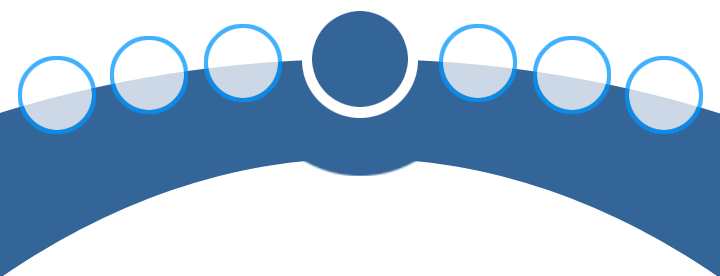
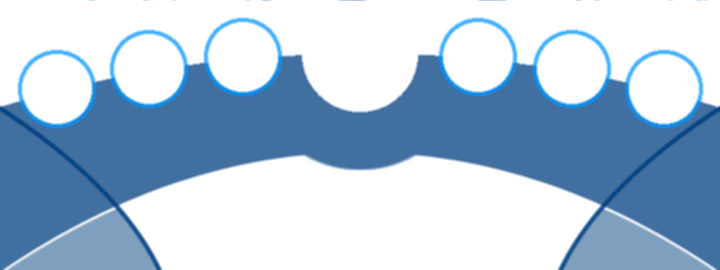
mainmenu colorfix, messagefix

diff --git a/tuxbox/enigma/src/enigma_dyn.cpp b/tuxbox/enigma/src/enigma_dyn.cpp
@@ -35,6 +35,51 @@
 
 #define DELETE(WHAT) result.strReplace(#WHAT, "")
 
+static int getHex(int c)
+{
+	c=toupper(c);
+	c-='0';
+	if (c<0)
+		return -1;
+	if (c > 9)
+		c-='A'-10;
+	if (c > 0xF)
+		return -1;
+	return c;
+}
+
+static eString httpUnescape(const eString &string)
+{
+	eString ret;
+	for (unsigned int i=0; i<string.length(); ++i)
+	{
+		int c=string[i];
+		switch (c)
+		{
+		case '%':
+		{
+			int val='%';
+			if ((string.length() - i) > 1)
+				val=getHex(string[++i]);
+			if ((string.length() - i) > 1)
+			{
+				val<<=4;
+				val+=getHex(string[++i]);
+			}
+			ret+=val;
+			break;
+		}
+		case '+':
+			ret+=' ';
+			break;
+		default:
+			ret+=c;
+			break;
+		}
+	}
+	return ret;
+}
+
 static std::map<eString,eString> getRequestOptions(eString opt)
 {
 	std::map<eString,eString> result;
@@ -55,7 +100,7 @@ static std::map<eString,eString> getRequestOptions(eString opt)
 		unsigned int b=opt.find("&", e+1);
 		if(b==eString::npos)
 			b=(unsigned)-1;
-		eString r=opt.mid(e+1, b-e-1);
+		eString r=httpUnescape(opt.mid(e+1, b-e-1));
 		result.insert(std::pair<eString, eString>(n, r));
 		opt=opt.mid(a+1);
 	}

diff --git a/tuxbox/enigma/src/enigma_mainmenu.h b/tuxbox/enigma/src/enigma_mainmenu.h
@@ -20,6 +20,7 @@ class eMainMenu: public eWidget
 	void sel_info();	
 	void sel_quit();
 	void sel_plugins();
+	void eraseBackground(gPainter *, const eRect &where);
 protected:
 	int eventHandler(const eWidgetEvent &event);
 public:

diff --git a/tuxbox/enigma/src/enigma_mainmenu.cpp b/tuxbox/enigma/src/enigma_mainmenu.cpp
@@ -211,3 +211,7 @@ int eMainMenu::eventHandler(const eWidgetEvent &event)
 	}
 	return eWidget::eventHandler(event);
 }
+
+void eMainMenu::eraseBackground(gPainter *, const eRect &where)
+{
+}

diff --git a/tuxbox/enigma/src/enigma_main.cpp b/tuxbox/enigma/src/enigma_main.cpp
@@ -527,6 +527,8 @@ eZapMain::eZapMain(): eWidget(0, 1), pMsg(0), message_notifier(eApp), timeout(eA
 	gotPMT();
 	gotSDT();
 	gotEIT();
+	
+	startMessages();
 }
 
 eZapMain::~eZapMain()
